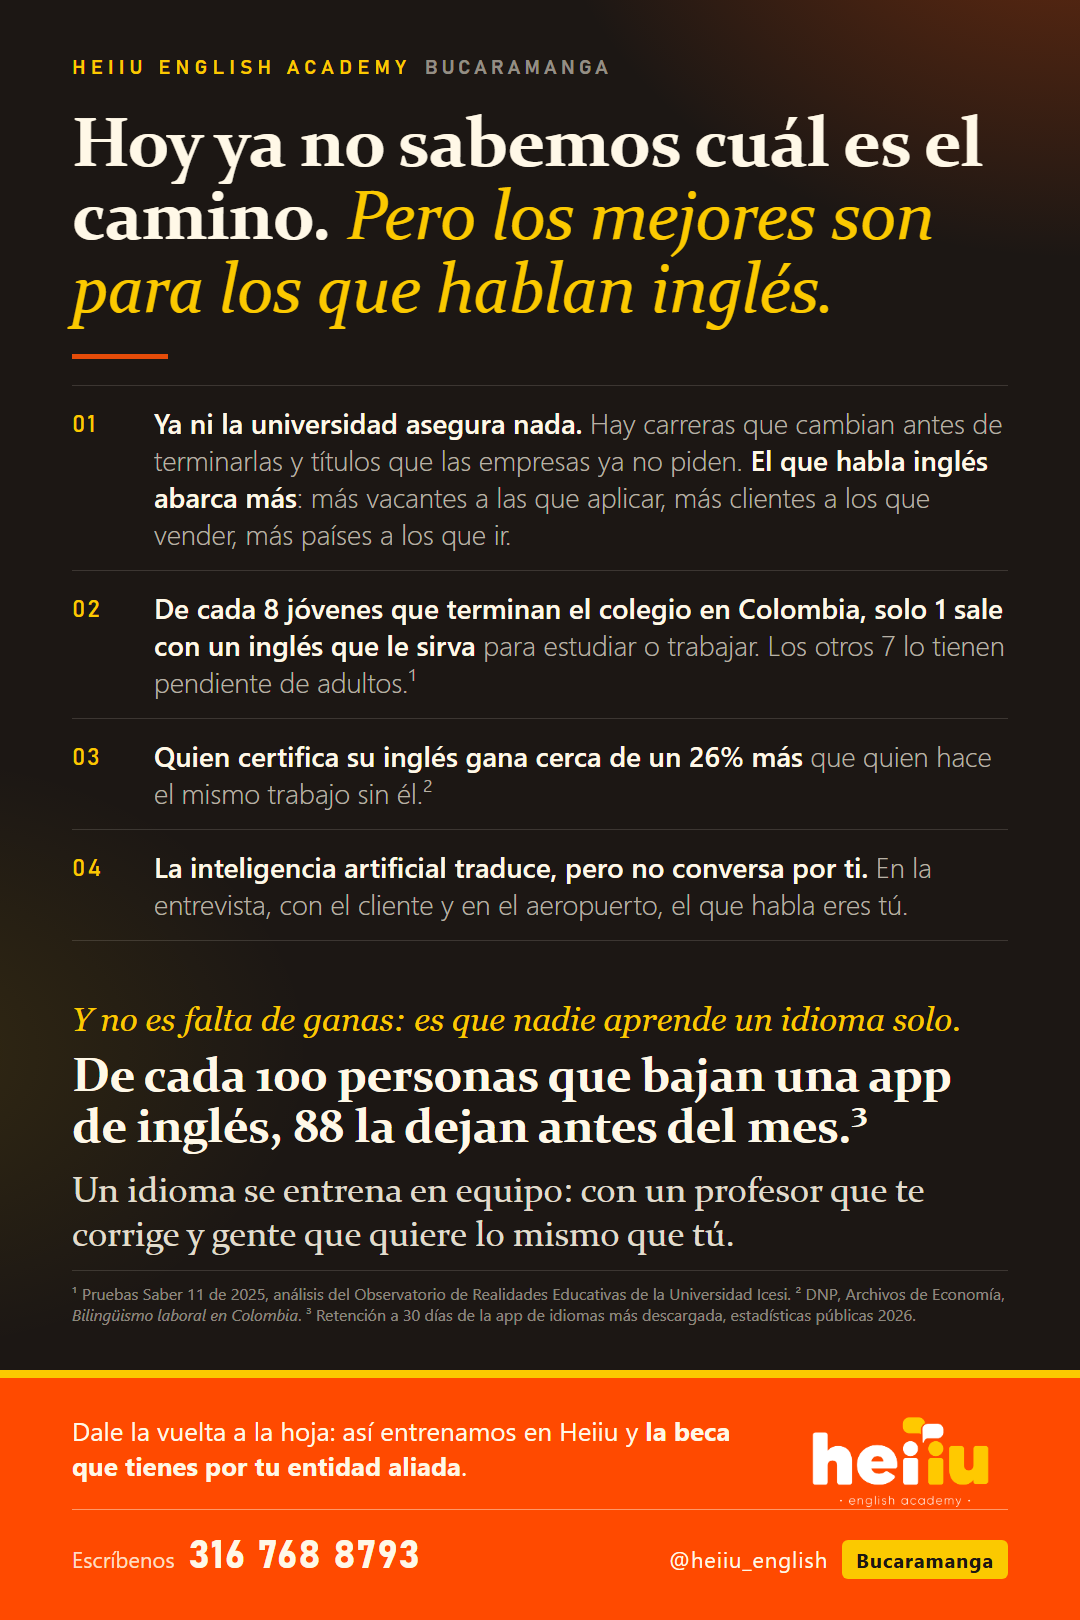
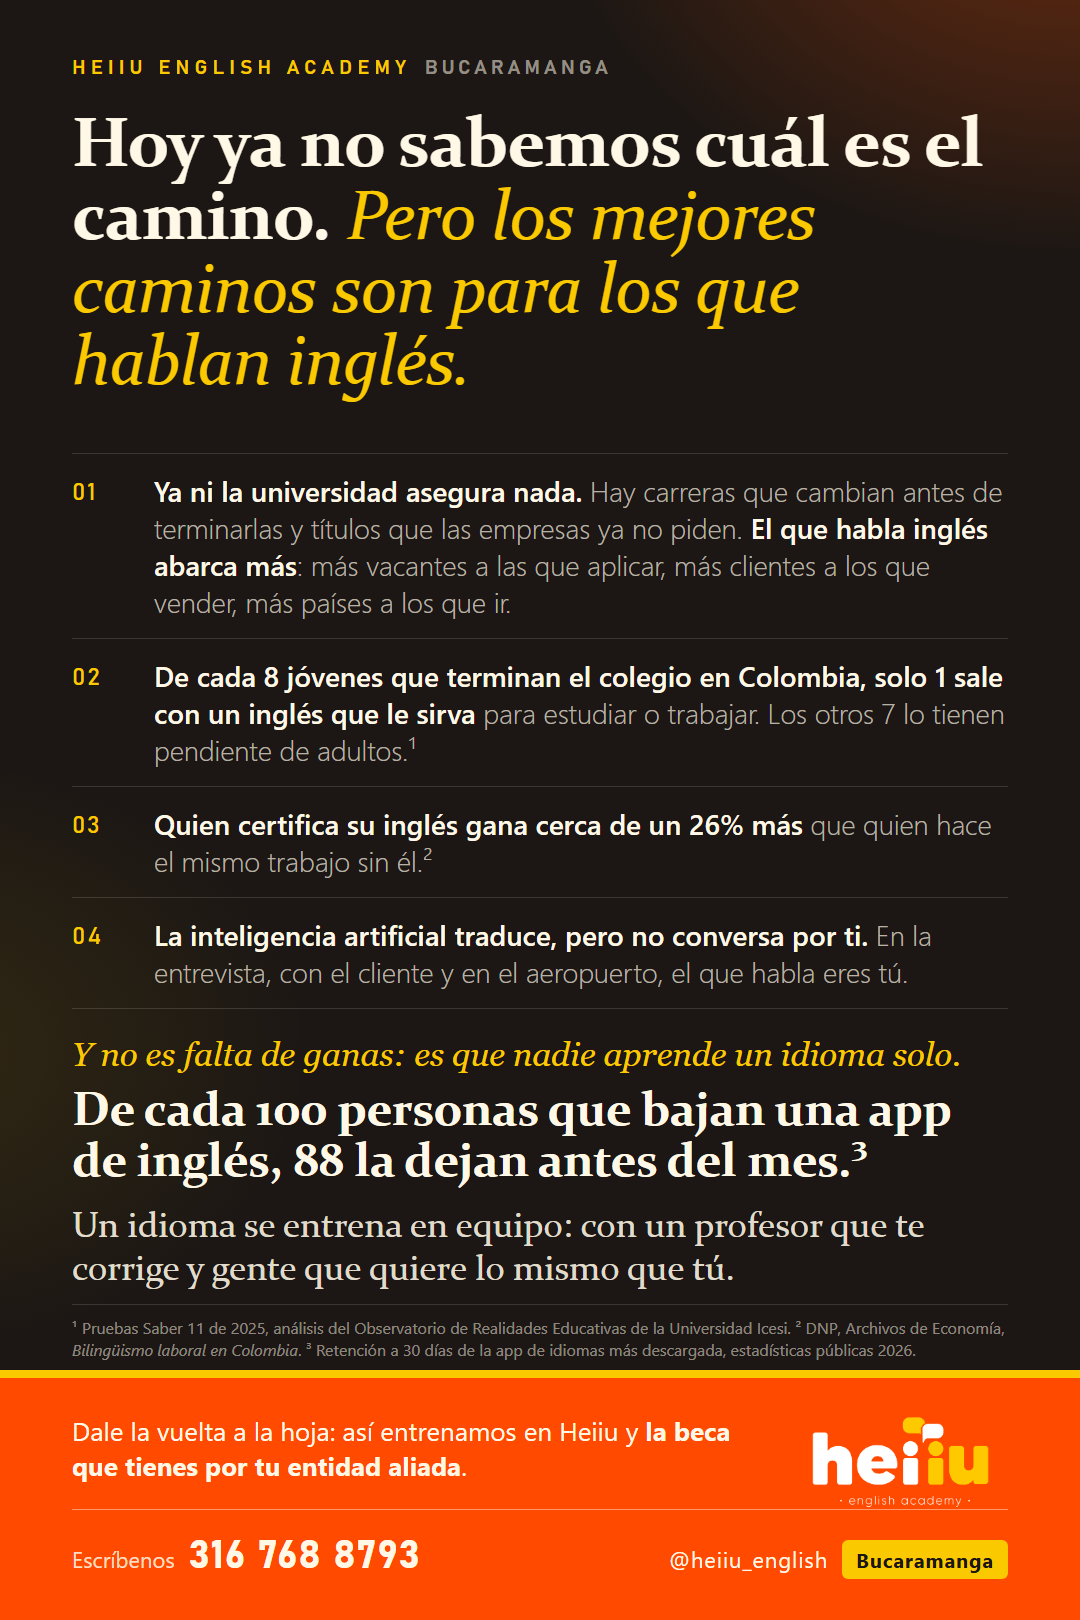
Pieza general: titular 'los mejores caminos'; respaldo abre con 'vender ingles es facil, lo dificil es que aprendas' y el parrafo del gimnasio antes del Pacto

diff --git a/generadores/comercial/gen_piezas_conciencia.py b/generadores/comercial/gen_piezas_conciencia.py
@@ -70,6 +70,7 @@ ol.st p b { color: #FFF8E7; font-weight: 600 }
 .why .k { font-family: Bahnschrift, sans-serif; font-size: 19px; letter-spacing: .14em; color: #FBC900; font-weight: 600; margin-bottom: 8px }
 .why p { font-size: 25px; line-height: 1.3; color: rgba(255,248,231,.86) }
 .why p b { color: #FFF8E7; font-weight: 600 }
+.intro { font-family: Constantia, Georgia, serif; font-size: 27px; line-height: 1.36; color: rgba(255,248,231,.88); margin: 0 0 22px 0 } .intro b { color: #FBC900 }
 blockquote { margin-top: 10px; padding: 22px 28px 22px 30px; border-left: 6px solid #FBC900; background: rgba(255,248,231,.06); border-radius: 0 16px 16px 0;
              font-family: Constantia, Georgia, serif; font-size: 27px; line-height: 1.36; color: #FFF8E7 }
 blockquote b { font-weight: 700 } blockquote cite { display: block; font-style: normal; font-family: Bahnschrift, sans-serif; font-size: 18px; letter-spacing: .14em; color: #FBC900; margin-top: 12px }
@@ -102,7 +103,7 @@ PIEZAS = {
         band_px=340),
     'GENERAL_ASESORAS_FRENTE': dict(   # hoja que la asesora de la entidad aliada entrega o reenvia; cara 1: conciencia con cifras verificadas (fuentes al pie)
         compact=True, label='HEIIU ENGLISH ACADEMY', sub='BUCARAMANGA',
-        h1='Hoy ya no sabemos cuál es el camino. <em>Pero los mejores son para los que hablan inglés.</em>',
+        h1='Hoy ya no sabemos cuál es el camino. <em>Pero los mejores caminos son para los que hablan inglés.</em>',
         st=[('<b>Ya ni la universidad asegura nada.</b> Hay carreras que cambian antes de terminarlas y títulos que las empresas ya no piden. <b>El que habla inglés abarca más</b>: más vacantes a las que aplicar, más clientes a los que vender, más países a los que ir.'),
             ('<b>De cada 8 jóvenes que terminan el colegio en Colombia, solo 1 sale con un inglés que le sirva</b> para estudiar o trabajar. Los otros 7 lo tienen pendiente de adultos.¹'),
             ('<b>Quien certifica su inglés gana cerca de un 26% más</b> que quien hace el mismo trabajo sin él.²'),
@@ -115,7 +116,9 @@ PIEZAS = {
         band_px=250),
     'GENERAL_ASESORAS_RESPALDO': dict(   # cara 2: el Pacto con las palabras de gerencia (texto vigente 15/10/2026), por que Heiiu, beca y como escribir
         compact=True, theme='light', label='ASÍ ES HEIIU', sub='LEE ESTO ANTES DE DECIDIR',
-        h1='Esto se entrena <em>como un deporte.</em>',
+        h1='Vender inglés es fácil. <em>Lo difícil es que aprendas.</em>',
+        intro=('Muchas academias funcionan como un gimnasio: el negocio sale cuando pagas y dejas de ir. Nadie te llama, nadie te extraña, y a los tres meses la matrícula se volvió culpa. '
+               '<b>En Heiiu queremos la parte difícil: que vengas, que hables y que no te sueltes.</b> Por eso te lo decimos antes de que pagues:'),
         quote=('Nuestro objetivo es que salgas hablando inglés. Si no se logra, algo está mal: o tú dejaste de entrenar, o nosotros no estamos cumpliendo. '
                'Esto es un entrenamiento en equipo, como un gimnasio o aprender a nadar: desde el primer día hablas, tu profesor ve dónde puedes mejorar y lo repetimos hasta que sale. '
                'Por eso grabas un video corto todos los días y tu profesor te lo devuelve con una mejora. A cambio, la garantía por escrito: '
@@ -186,6 +189,7 @@ ol.st li { border-color: rgba(28,23,20,.14) } ol.st .n { color: #E54C09 } ol.st 
 .why h2 { color: #E54C09 } .why .card { background: #FFFFFF; border-color: #E8DCC8 } .why .card.full { background: rgba(251,201,0,.22); border-color: #E6B800 }
 .why .k { color: #E54C09 } .why p { color: rgba(28,23,20,.85) } .why p b { color: #1C1714 }
 blockquote { border-left-color: #E54C09; background: rgba(229,76,9,.06); color: #1C1714 } blockquote cite { color: #E54C09 }
+.intro { color: rgba(28,23,20,.88) } .intro b { color: #E54C09 }
 .fn { color: rgba(28,23,20,.55); border-color: rgba(28,23,20,.14) }
 """
 
@@ -194,7 +198,8 @@ COMPACT = """
 ol.st li { padding: 19px 0 17px 0 } ol.st p { font-size: 28px; line-height: 1.32 }
 .pivot { padding-top: 26px } .pivot .lead { font-size: 33px } .pivot .big { font-size: 48px; margin-top: 10px } .pivot .big2 { font-size: 36px; margin-top: 18px } .fn { margin-top: 14px }
 .why { margin-top: 28px } .why h2 { font-size: 38px; margin-bottom: 14px } .why .grid { gap: 14px }
-.why .card { padding: 16px 20px 18px 20px; border-radius: 14px } .why .k { font-size: 17px; margin-bottom: 6px } .why p { font-size: 22px; line-height: 1.28 }
+.why .card { padding: 14px 18px 16px 18px; border-radius: 14px } .why .k { font-size: 17px; margin-bottom: 5px } .why p { font-size: 21.5px; line-height: 1.27 }
+.intro { font-size: 25px; line-height: 1.33; margin-bottom: 18px } blockquote { font-size: 25px; line-height: 1.33; padding: 18px 24px 18px 26px } blockquote cite { margin-top: 8px }
 """
 
 
@@ -205,6 +210,7 @@ def html(c):
     logo = pathlib.Path(LOGO_NAR).as_uri()
     why = ''
     quote = ('<blockquote>%s<cite>%s</cite></blockquote>' % (c['quote'], c.get('cite', ''))) if c.get('quote') else ''
+    if c.get('intro'): quote = '<p class="intro">%s</p>' % c['intro'] + quote
     fn = ('<div class="fn">%s</div>' % c['fn']) if c.get('fn') else ''
     if c.get('why'):
         cards = ''.join('<div class="card%s"><div class="k">%s</div><p>%s</p></div>' % (' full' if full else '', k, t) for k, t, full in c['why'])
